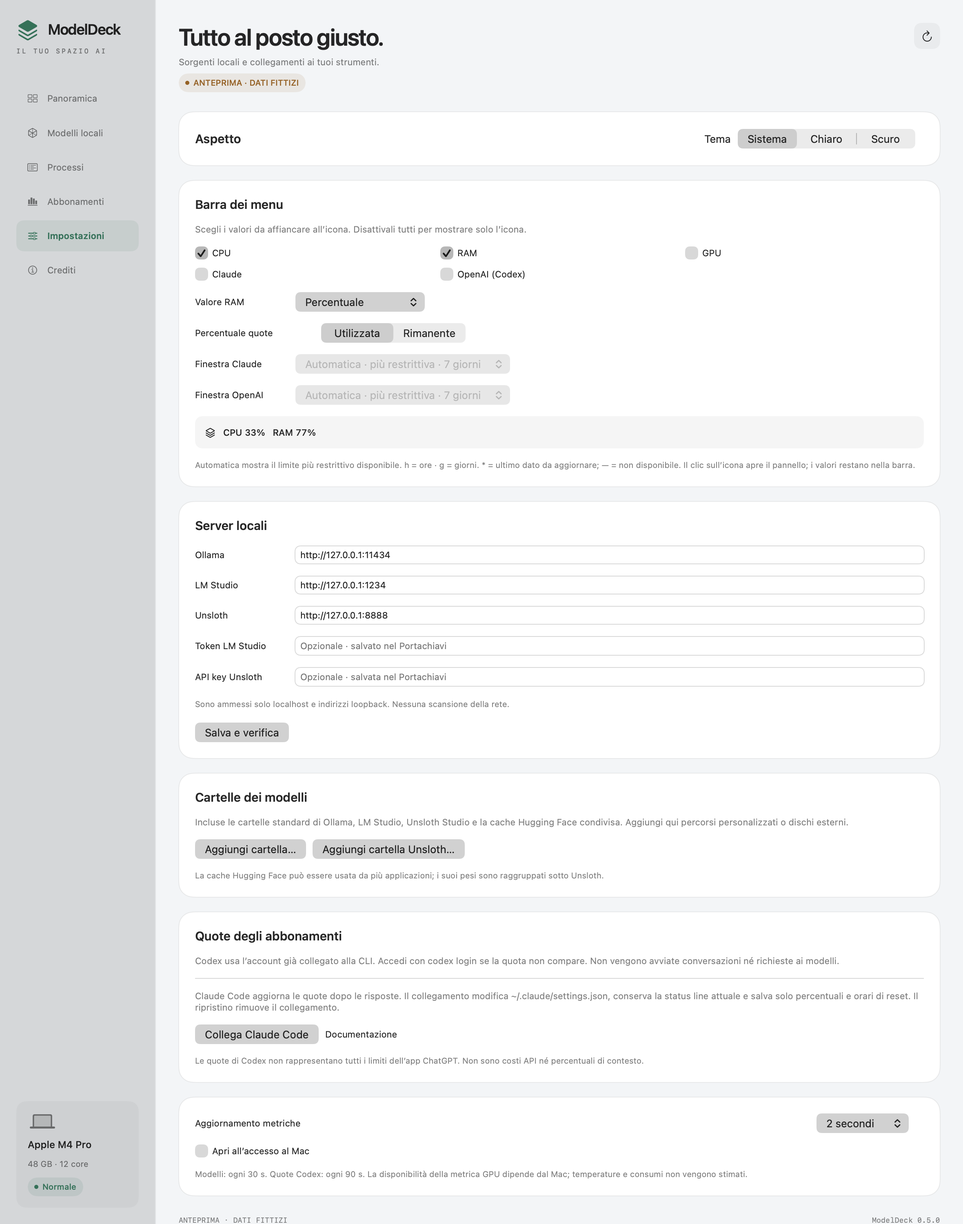
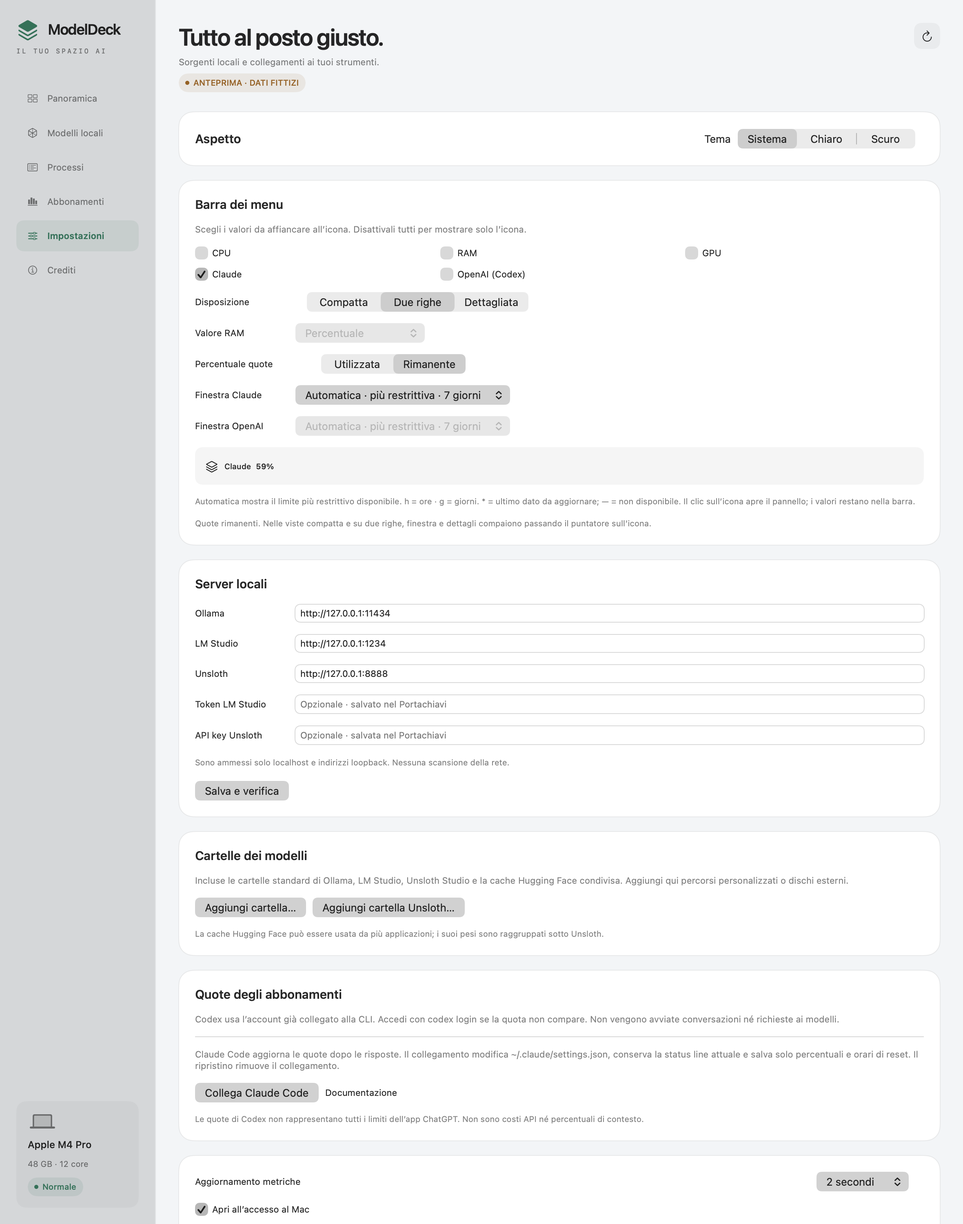
Add compact and two-row menu bar layouts

diff --git a/Sources/ModelDeckCore/MenuBarSummary.swift b/Sources/ModelDeckCore/MenuBarSummary.swift
@@ -17,15 +17,31 @@ public enum MenuBarQuotaStyle: String, CaseIterable, Codable, Sendable {
     public var title: String { self == .used ? "Utilizzata" : "Rimanente" }
 }
 
+public enum MenuBarLayout: String, CaseIterable, Codable, Sendable {
+    case compact, twoRows, detailed
+    public var title: String { switch self { case .compact: "Compatta"; case .twoRows: "Due righe"; case .detailed: "Dettagliata" } }
+}
+
 public struct MenuBarOptions: Codable, Equatable, Sendable {
     public static let defaultsKey = "menuBarOptions"
     public var metrics: Set<MenuBarMetric> = [.cpu, .memory]
     public var memoryStyle: MenuBarMemoryStyle = .percent
     public var quotaStyle: MenuBarQuotaStyle = .used
+    public var layout: MenuBarLayout = .twoRows
     /// Empty selects the most restrictive active quota in the provider's main bucket.
     public var claudeWindowID = ""
     public var openAIWindowID = ""
     public init() {}
+    private enum CodingKeys: String, CodingKey { case metrics, memoryStyle, quotaStyle, layout, claudeWindowID, openAIWindowID }
+    public init(from decoder: Decoder) throws {
+        let fields = try decoder.container(keyedBy: CodingKeys.self)
+        metrics = try fields.decodeIfPresent(Set<MenuBarMetric>.self, forKey: .metrics) ?? [.cpu, .memory]
+        memoryStyle = try fields.decodeIfPresent(MenuBarMemoryStyle.self, forKey: .memoryStyle) ?? .percent
+        quotaStyle = try fields.decodeIfPresent(MenuBarQuotaStyle.self, forKey: .quotaStyle) ?? .used
+        layout = try fields.decodeIfPresent(MenuBarLayout.self, forKey: .layout) ?? .twoRows
+        claudeWindowID = try fields.decodeIfPresent(String.self, forKey: .claudeWindowID) ?? ""
+        openAIWindowID = try fields.decodeIfPresent(String.self, forKey: .openAIWindowID) ?? ""
+    }
     public var encoded: String { (try? JSONEncoder().encode(self)).map { String(decoding: $0, as: UTF8.self) } ?? "" }
     public static func decode(_ raw: String?) -> MenuBarOptions {
         guard let raw, let data = raw.data(using: .utf8), let options = try? JSONDecoder().decode(Self.self, from: data) else { return Self() }
@@ -34,9 +50,15 @@ public struct MenuBarOptions: Codable, Equatable, Sendable {
     public static func load(from defaults: UserDefaults = .standard) -> MenuBarOptions { decode(defaults.string(forKey: defaultsKey)) }
 }
 
+public struct MenuBarReading: Sendable {
+    public let name: String
+    public let value: String
+}
+
 public struct MenuBarSummary: Sendable {
     public let title: String
     public let tooltip: String
+    public let readings: [MenuBarReading]
 
     public static func selectedWindow(in usage: SubscriptionUsage, id: String, provider: MenuBarMetric, now: Date = Date()) -> UsageWindow? {
         if !id.isEmpty { return usage.windows.first { $0.id == id } }
@@ -62,7 +84,7 @@ public struct MenuBarSummary: Sendable {
     }
 
     public static func render(options: MenuBarOptions, snapshot: SystemSnapshot, claude: SubscriptionUsage, openAI: SubscriptionUsage, now: Date = Date()) -> MenuBarSummary {
-        var titles: [String] = [], details = ["ModelDeck"]
+        var readings: [MenuBarReading] = [], details = ["ModelDeck"]
         func percentage(_ value: Double?) -> String {
             guard let value, value.isFinite, value >= 0 else { return "—" }
             return DeckFormat.percent(value)
@@ -71,12 +93,12 @@ public struct MenuBarSummary: Sendable {
             switch metric {
             case .cpu, .gpu:
                 let value = percentage(metric == .cpu ? snapshot.cpu : snapshot.gpu)
-                titles.append(metric.title + " " + value)
+                readings.append(.init(name: metric.title, value: value))
                 details.append(metric.title + " · " + value)
             case .memory:
                 let available = snapshot.memoryTotal > 0 && snapshot.memoryUsed > 0
                 let value = available ? options.memoryStyle == .percent ? percentage(snapshot.memoryPercent) : DeckFormat.bytes(snapshot.memoryUsed) : "—"
-                titles.append("RAM " + value)
+                readings.append(.init(name: "RAM", value: value))
                 details.append(available ? "RAM · \(DeckFormat.bytes(snapshot.memoryUsed)) / \(DeckFormat.bytes(snapshot.memoryTotal)) · \(percentage(snapshot.memoryPercent))" : "RAM · non disponibile")
             case .claude, .openAI:
                 let usage = metric == .claude ? claude : openAI
@@ -87,23 +109,24 @@ public struct MenuBarSummary: Sendable {
                 if let minutes = window?.durationMinutes, minutes > 0 {
                     scope = minutes % 1440 == 0 ? "\(minutes / 1440)g" : minutes % 60 == 0 ? "\(minutes / 60)h" : "\(minutes)m"
                 }
-                let label = prefix + (scope.isEmpty ? "" : " " + scope)
+                let label = prefix + (options.layout == .detailed && !scope.isEmpty ? " " + scope : "")
                 guard let window, window.usedPercent.isFinite, window.usedPercent >= 0,
                       window.resetsAt.map({ $0 > now }) ?? true else {
-                    titles.append(label + " —")
+                    readings.append(.init(name: label, value: "—"))
                     details.append(metric.title + " · " + (window?.title ?? "quota selezionata") + " · non disponibile o in attesa di aggiornamento")
                     continue
                 }
                 let stale = usage.updatedAt.map { now.timeIntervalSince($0) > 600 } ?? true
                 let needsUpdate = stale || usage.message != nil
                 let value = options.quotaStyle == .used ? window.usedPercent : max(0, 100 - window.usedPercent)
-                titles.append(label + " " + percentage(value) + (needsUpdate ? "*" : "") + (options.quotaStyle == .used ? " usato" : " rimanente"))
+                let meaning = options.layout == .detailed ? (options.quotaStyle == .used ? " usato" : " rimanente") : ""
+                readings.append(.init(name: label, value: percentage(value) + (needsUpdate ? "*" : "") + meaning))
                 var detail = metric.title + " · " + window.title + " · " + percentage(value) + (options.quotaStyle == .used ? " utilizzato" : " rimanente")
                 if needsUpdate { detail += " · ultimo dato, da aggiornare" }
                 if let reset = window.resetsAt { detail += " · reset " + reset.formatted(date: .abbreviated, time: .shortened) }
                 details.append(detail)
             }
         }
-        return MenuBarSummary(title: titles.joined(separator: "   "), tooltip: details.joined(separator: "\n"))
+        return MenuBarSummary(title: readings.map { $0.name + " " + $0.value }.joined(separator: options.layout == .detailed ? "   " : " · "), tooltip: details.joined(separator: "\n"), readings: readings)
     }
 }

diff --git a/Sources/ModelDeck/MenuBarBadge.swift b/Sources/ModelDeck/MenuBarBadge.swift
@@ -1,0 +1,88 @@
+import AppKit
+import CoreText
+import SwiftUI
+import ModelDeckCore
+
+@MainActor enum MenuBarBadge {
+    static func icon() -> NSImage? {
+        let icon = NSImage(systemSymbolName: "square.stack.3d.up", accessibilityDescription: "ModelDeck")
+        icon?.isTemplate = true; icon?.size = NSSize(width: 17, height: 18)
+        return icon
+    }
+
+    /// Vector-backed template image: AppKit renders at the display's scale and menu bar contrast.
+    static func image(for summary: MenuBarSummary, height: CGFloat = 22) -> NSImage {
+        let height = max(20, min(24, height))
+        let nameFont = NSFont.systemFont(ofSize: height >= 22 ? 9.5 : 9, weight: .medium)
+        let valueFont = NSFont.monospacedDigitSystemFont(ofSize: height >= 22 ? 9.5 : 9, weight: .semibold)
+        func line(_ text: String, font: NSFont) -> CTLine {
+            CTLineCreateWithAttributedString(NSAttributedString(string: text, attributes: [.font: font, .foregroundColor: NSColor.black]) as CFAttributedString)
+        }
+        let lines = summary.readings.map { (line($0.name, font: nameFont), line($0.value, font: valueFont)) }
+        let columns = stride(from: 0, to: lines.count, by: 2).map { Array(lines[$0..<min($0 + 2, lines.count)]) }
+        let widths = columns.map { rows -> (CGFloat, CGFloat) in
+            (ceil(rows.map { CGFloat(CTLineGetTypographicBounds($0.0, nil, nil, nil)) }.max() ?? 0),
+             ceil(rows.map { CGFloat(CTLineGetTypographicBounds($0.1, nil, nil, nil)) }.max() ?? 0))
+        }
+        let width = 24 + widths.reduce(CGFloat(0)) { $0 + $1.0 + 5 + $1.1 } + CGFloat(max(0, columns.count - 1)) * 10
+        let symbol = icon()
+        let result = NSImage(size: NSSize(width: width, height: height), flipped: false) { _ in
+            guard let context = NSGraphicsContext.current?.cgContext else { return false }
+            context.saveGState(); defer { context.restoreGState() }
+            symbol?.draw(in: NSRect(x: 0, y: (height - 18) / 2, width: 17, height: 18))
+            context.textMatrix = .identity
+            func draw(_ line: CTLine, x: CGFloat, bottom: CGFloat) {
+                var ascent: CGFloat = 0, descent: CGFloat = 0
+                _ = CTLineGetTypographicBounds(line, &ascent, &descent, nil)
+                context.textPosition = CGPoint(x: x, y: bottom + (height / 2 - ascent - descent) / 2 + descent)
+                CTLineDraw(line, context)
+            }
+            var x: CGFloat = 24
+            for (index, rows) in columns.enumerated() {
+                let (nameWidth, valueWidth) = widths[index]
+                for (row, pair) in rows.enumerated() {
+                    let bottom = rows.count == 1 ? height / 4 : row == 0 ? height / 2 : 0
+                    draw(pair.0, x: x, bottom: bottom)
+                    let actual = CGFloat(CTLineGetTypographicBounds(pair.1, nil, nil, nil))
+                    draw(pair.1, x: x + nameWidth + 5 + valueWidth - actual, bottom: bottom)
+                }
+                x += nameWidth + 5 + valueWidth + 10
+            }
+            return true
+        }
+        result.isTemplate = true; result.accessibilityDescription = summary.title
+        return result
+    }
+}
+
+struct MenuBarLayoutsPreview: View {
+    @EnvironmentObject var store: DeckStore
+    var body: some View {
+        VStack(alignment: .leading, spacing: 20) {
+            Text("Quote nella barra dei menu").font(.system(size: 22, weight: .semibold))
+            StatusPill(text: "ANTEPRIMA · DATI FITTIZI", color: DeckTheme.amber)
+            ForEach(MenuBarLayout.allCases, id: \.self) { layout in
+                let summary = summary(layout)
+                DeckCard {
+                    VStack(alignment: .leading, spacing: 14) {
+                        Text(layout.title).font(.system(size: 12, weight: .semibold))
+                        HStack(spacing: 7) {
+                            if layout == .twoRows { Image(nsImage: MenuBarBadge.image(for: summary)).renderingMode(.template).fixedSize() }
+                            else { Image(systemName: "square.stack.3d.up"); Text(summary.title).font(.system(size: 11, weight: .medium)).monospacedDigit() }
+                            Spacer()
+                        }.frame(height: 24)
+                    }
+                }
+            }
+            Text("Le quote dell’esempio sono rimanenti. Finestra, reset e aggiornamento sono disponibili nel tooltip e nel pannello.")
+                .font(.system(size: 11)).foregroundStyle(DeckTheme.muted)
+        }.padding(24).frame(width: 650, height: 490).background(DeckTheme.background).foregroundStyle(DeckTheme.foreground).deckAppearance(.light)
+    }
+    private func summary(_ layout: MenuBarLayout) -> MenuBarSummary {
+        var options = MenuBarOptions(); options.metrics = [.claude, .openAI]; options.quotaStyle = .remaining; options.layout = layout
+        var claude = store.claude, openAI = store.codex
+        for i in claude.windows.indices { claude.windows[i].usedPercent = 100 }
+        for i in openAI.windows.indices { openAI.windows[i].usedPercent = 1 }
+        return .render(options: options, snapshot: store.snapshot, claude: claude, openAI: openAI)
+    }
+}

diff --git a/Sources/ModelDeck/DeckApplicationDelegate.swift b/Sources/ModelDeck/DeckApplicationDelegate.swift
@@ -45,8 +45,7 @@ import ModelDeckCore
     func configureStatusItem() {
         guard statusItem == nil else { return }
         let item = NSStatusBar.system.statusItem(withLength: NSStatusItem.variableLength)
-        let image = NSImage(systemSymbolName: "square.stack.3d.up", accessibilityDescription: "ModelDeck")
-        image?.isTemplate = true; image?.size = NSSize(width: 17, height: 18)
+        let image = MenuBarBadge.icon()
         item.button?.image = image; item.button?.toolTip = "ModelDeck"
         item.button?.font = .monospacedDigitSystemFont(ofSize: 11, weight: .medium)
         item.button?.target = self; item.button?.action = #selector(togglePopover)
@@ -68,10 +67,17 @@ import ModelDeckCore
     private func refreshStatusItem() { updateStatusItem(snapshot: store.snapshot, claude: store.claude, openAI: store.codex) }
     private func updateStatusItem(snapshot: SystemSnapshot, claude: SubscriptionUsage, openAI: SubscriptionUsage) {
         guard let item = statusItem, let button = item.button else { return }
-        let summary = MenuBarSummary.render(options: menuOptionsOverride ?? .load(), snapshot: snapshot, claude: claude, openAI: openAI)
+        let options = menuOptionsOverride ?? .load()
+        let summary = MenuBarSummary.render(options: options, snapshot: snapshot, claude: claude, openAI: openAI)
         item.length = summary.title.isEmpty ? NSStatusItem.squareLength : NSStatusItem.variableLength
-        button.imagePosition = summary.title.isEmpty ? .imageOnly : .imageLeading
-        button.title = summary.title.isEmpty ? "" : " " + summary.title
+        if options.layout == .twoRows && !summary.readings.isEmpty {
+            button.image = MenuBarBadge.image(for: summary, height: NSStatusBar.system.thickness - 2)
+            button.imagePosition = .imageOnly; button.title = ""
+        } else {
+            button.image = MenuBarBadge.icon()
+            button.imagePosition = summary.title.isEmpty ? .imageOnly : .imageLeading
+            button.title = summary.title.isEmpty ? "" : " " + summary.title
+        }
         button.toolTip = summary.tooltip
         button.setAccessibilityLabel(summary.tooltip.replacingOccurrences(of: "\n", with: ", "))
     }
@@ -122,6 +128,7 @@ import ModelDeckCore
         let savedOverride = menuOptionsOverride
         defer { menuOptionsOverride = savedOverride; store.snapshot = savedSnapshot; refreshStatusItem() }
         var options = MenuBarOptions(); options.metrics = Set(MenuBarMetric.allCases)
+        options.layout = .detailed
         menuOptionsOverride = options; refreshStatusItem()
         let text = statusItem?.button?.title ?? ""
         let showsValues = text.contains("CPU 33%") && text.contains("RAM") && text.contains("Claude 7g 41% usato") && text.contains("OpenAI 7g 58% usato")
@@ -135,6 +142,10 @@ import ModelDeckCore
         togglePopover()
         let closed = !popover.isShown
         let valuesWhileClosed = statusItem?.button?.title == persistentTitle
+        options.metrics = [.claude, .openAI]; options.layout = .twoRows; menuOptionsOverride = options; refreshStatusItem()
+        let badge = statusItem?.button?.image
+        let twoRows = statusItem?.button?.title.isEmpty == true && badge?.accessibilityDescription?.contains("Claude 41%") == true && (badge?.size.height ?? 0) >= 20
+        let compactWidth = (badge?.size.width ?? 1000) < 150
         dashboard?.close()
         showDashboard()
         options.metrics = []; menuOptionsOverride = options; refreshStatusItem()
@@ -144,6 +155,7 @@ import ModelDeckCore
                 "selected_values": showsValues, "image_and_text": imageAndText,
                 "live_values": updatesValues, "icon_only": iconOnly,
                 "values_while_open": valuesWhileOpen, "values_while_closed": valuesWhileClosed,
+                "two_rows": twoRows, "two_rows_width": compactWidth,
                 "popover_opened": opened, "popover_closed": closed,
                 "dashboard_reopened": dashboard?.isVisible == true]
     }

diff --git a/Sources/ModelDeck/MenuBarSettingsView.swift b/Sources/ModelDeck/MenuBarSettingsView.swift
@@ -17,6 +17,12 @@ struct MenuBarSettingsView: View {
                     ForEach(MenuBarMetric.allCases, id: \.self) { metric in Toggle(metric.title, isOn: metricBinding(metric)).toggleStyle(.checkbox) }
                 }.font(.system(size: 11))
                 HStack {
+                    Text("Disposizione").frame(width: 115, alignment: .leading)
+                    Picker("Disposizione", selection: optionBinding(\.layout)) {
+                        ForEach(MenuBarLayout.allCases, id: \.self) { Text($0.title).tag($0) }
+                    }.pickerStyle(.segmented).labelsHidden().frame(width: 300)
+                }.font(.system(size: 11))
+                HStack {
                     Text("Valore RAM").frame(width: 115, alignment: .leading)
                     Picker("Valore RAM", selection: optionBinding(\.memoryStyle)) {
                         ForEach(MenuBarMemoryStyle.allCases, id: \.self) { Text($0.title).tag($0) }
@@ -31,13 +37,19 @@ struct MenuBarSettingsView: View {
                 windowPicker("Finestra Claude", metric: .claude, usage: store.claude, selection: optionBinding(\.claudeWindowID))
                 windowPicker("Finestra OpenAI", metric: .openAI, usage: store.codex, selection: optionBinding(\.openAIWindowID))
                 HStack(spacing: 9) {
-                    Image(systemName: "square.stack.3d.up")
-                    if !summary.title.isEmpty { Text(summary.title).monospacedDigit() }
+                    if options.layout == .twoRows && !summary.readings.isEmpty {
+                        Image(nsImage: MenuBarBadge.image(for: summary)).renderingMode(.template).fixedSize()
+                    } else {
+                        Image(systemName: "square.stack.3d.up")
+                        if !summary.title.isEmpty { Text(summary.title).monospacedDigit() }
+                    }
                     Spacer(minLength: 0)
                 }.font(.system(size: 11, weight: .medium)).padding(12)
                     .background(DeckTheme.subtle.opacity(0.04), in: RoundedRectangle(cornerRadius: 9)).help(summary.tooltip)
                     .accessibilityLabel("Anteprima barra dei menu. " + summary.tooltip)
                 Text("Automatica mostra il limite più restrittivo disponibile. h = ore · g = giorni. * = ultimo dato da aggiornare; — = non disponibile. Il clic sull’icona apre il pannello; i valori restano nella barra.")
+                    .font(.system(size: 10)).foregroundStyle(DeckTheme.muted).fixedSize(horizontal: false, vertical: true)
+                Text("Quote \(options.quotaStyle == .used ? "utilizzate" : "rimanenti"). Nelle viste compatta e su due righe, finestra e dettagli compaiono passando il puntatore sull’icona.")
                     .font(.system(size: 10)).foregroundStyle(DeckTheme.muted).fixedSize(horizontal: false, vertical: true)
             }
         }

diff --git a/Sources/ModelDeck/ModelDeckApp.swift b/Sources/ModelDeck/ModelDeckApp.swift
@@ -102,11 +102,18 @@ import ModelDeckCore
         let section = CommandLine.arguments.contains("--credits") ? "credits" : CommandLine.arguments.contains("--processes") ? "processes" : CommandLine.arguments.contains("--settings") ? "settings" : "overview"
         let theme: DeckAppearance = CommandLine.arguments.contains("--light") ? .light : .dark
         let fit = CommandLine.arguments.contains("--fit")
+        if CommandLine.arguments.contains("--menu-bar") {
+            let hosting = NSHostingView(rootView: MenuBarLayoutsPreview().environmentObject(store))
+            writePreview(hosting, to: url, width: 650, height: 490); return
+        }
         if fit { store.machine.memory = UInt64(16 * gibibyte); store.machine.metalWorkingSet = UInt64(12 * gibibyte); store.snapshot.memoryTotal = store.machine.memory; store.snapshot.memoryUsed = UInt64(8 * gibibyte) }
         let content: AnyView = fit ? AnyView(ModelFitView(demonstration: true, demonstrateSearch: CommandLine.arguments.contains("--search"), appearanceOverride: theme).environmentObject(store).environment(\.locale, Locale(identifier: "it_IT"))) : AnyView(Dashboard(initialSection: section, appearanceOverride: theme).environmentObject(store).environment(\.locale, Locale(identifier: "it_IT")))
         let hosting = NSHostingView(rootView: content)
         let height = fit ? 850 : section == "processes" ? 940 : section == "settings" ? 1500 : section == "credits" ? 850 : 1360
-        let window = NSWindow(contentRect: NSRect(x: 0, y: 0, width: fit ? 840 : 1180, height: CGFloat(height)), styleMask: [.titled, .closable], backing: .buffered, defer: false)
+        writePreview(hosting, to: url, width: fit ? 840 : 1180, height: CGFloat(height))
+    }
+    @MainActor private static func writePreview<Content: View>(_ hosting: NSHostingView<Content>, to url: URL, width: CGFloat, height: CGFloat) {
+        let window = NSWindow(contentRect: NSRect(x: 0, y: 0, width: width, height: height), styleMask: [.titled, .closable], backing: .buffered, defer: false)
         window.contentView = hosting; window.orderFront(nil)
         DispatchQueue.main.asyncAfter(deadline: .now() + 1) {
             hosting.layoutSubtreeIfNeeded()

diff --git a/Tests/ModelDeckCoreTests/MenuBarTests.swift b/Tests/ModelDeckCoreTests/MenuBarTests.swift
@@ -10,7 +10,8 @@ final class MenuBarTests: XCTestCase {
         ], updatedAt: now, source: "Fixture")
     }
     private func render(_ options: MenuBarOptions, claude: SubscriptionUsage? = nil, codex: SubscriptionUsage? = nil, snapshot: SystemSnapshot = .init()) -> MenuBarSummary {
-        .render(options: options, snapshot: snapshot, claude: claude ?? usage(), openAI: codex ?? .init(provider: "OpenAI", source: "Fixture"), now: now)
+        var detailed = options; detailed.layout = .detailed
+        return .render(options: detailed, snapshot: snapshot, claude: claude ?? usage(), openAI: codex ?? .init(provider: "OpenAI", source: "Fixture"), now: now)
     }
     func testZeroQuotaIsValidAndMissingOrExpiredWindowsNeverBecomeZero() {
         var options = MenuBarOptions(); options.metrics = [.claude, .openAI]
@@ -73,5 +74,16 @@ final class MenuBarTests: XCTestCase {
         XCTAssertEqual(render(options, claude: claude, codex: codex).title, "Claude 7g —   OpenAI 7g 100% rimanente")
         claude.windows[0].usedPercent = 100
         XCTAssertEqual(render(options, claude: claude, codex: codex).title, "Claude 5h 0% rimanente   OpenAI 7g 100% rimanente")
+    }
+    func testLayoutMigrationPreservesProviderSelectionsAndRemainingQuotaMeaning() {
+        let saved = #"{"quotaStyle":"remaining","openAIWindowID":"","metrics":["claude","openAI"],"memoryStyle":"percent","claudeWindowID":""}"#
+        let options = MenuBarOptions.decode(saved)
+        XCTAssertEqual(options.metrics, [.claude, .openAI]); XCTAssertEqual(options.quotaStyle, .remaining)
+        XCTAssertEqual(options.layout, .twoRows)
+        let summary = MenuBarSummary.render(options: options, snapshot: .init(), claude: usage(), openAI: .init(provider: "OpenAI", source: "Fixture"), now: now)
+        XCTAssertEqual(summary.title, "Claude 26% · OpenAI —")
+        XCTAssertEqual(summary.readings.map(\.name), ["Claude", "OpenAI"])
+        XCTAssertTrue(summary.tooltip.contains("7 giorni")); XCTAssertTrue(summary.tooltip.contains("26% rimanente"))
+        XCTAssertEqual(MenuBarOptions.decode(options.encoded), options)
     }
 }

diff --git a/Sources/ModelDeckCore/Subscriptions.swift b/Sources/ModelDeckCore/Subscriptions.swift
@@ -66,7 +66,7 @@ public enum CodexUsage {
                 guard buffer.count < 2_000_000 else { throw DeckError.invalidResponse }
             }
         }
-        try send(["id": 0, "method": "initialize", "params": ["clientInfo": ["name": "modeldeck", "title": "ModelDeck", "version": "0.5.0"]]])
+        try send(["id": 0, "method": "initialize", "params": ["clientInfo": ["name": "modeldeck", "title": "ModelDeck", "version": "0.6.0"]]])
         _ = try response(0)
         try send(["method": "initialized", "params": [:]])
         try send(["id": 1, "method": "account/rateLimits/read", "params": [:]])

diff --git a/Sources/ModelDeck/Dashboard.swift b/Sources/ModelDeck/Dashboard.swift
@@ -27,7 +27,7 @@ struct Dashboard: View {
                     HStack {
                         if store.demo { Text("ANTEPRIMA · DATI FITTIZI") }
                         Spacer()
-                        Text("ModelDeck 0.5.0")
+                        Text("ModelDeck 0.6.0")
                     }.font(.system(size: 9, design: .monospaced)).foregroundStyle(DeckTheme.muted)
                 }.padding(28).frame(maxWidth: 1200)
             }.frame(maxWidth: .infinity, maxHeight: .infinity)

diff --git a/README.md b/README.md
@@ -21,6 +21,7 @@ The screenshot uses **synthetic demonstration data**, not a real account or a pe
 - Confirmed termination (SIGTERM) or forced termination (SIGKILL) for your own processes, with PID identity validation.
 - Native menu bar icon: left click for the panel, right click for actions, and dashboard reopening after closing its window.
 - Selectable menu bar values beside the icon: CPU, RAM, GPU and Claude/OpenAI quota windows, with used or remaining percentages.
+- Compact, two-row and detailed menu bar layouts, with vector-rendered text that adapts to menu bar contrast.
 - Hardware fit estimator with public Hugging Face metadata, local GGUF/config metadata, configurable context, KV cache precision and memory margins.
 - Public Hugging Face model search by partial name, with selectable results and GGUF/MLX filters.
 - Credits page linking the author, source repository, issue tracker and license.
@@ -32,9 +33,9 @@ The project name and icon are provisional while the feature set is being develop
 
 ## Menu bar values
 
-Open **Impostazioni → Barra dei menu** to select any combination of CPU, RAM, GPU, Claude Code and OpenAI/Codex. CPU and RAM are enabled by default. Disable every value to keep only the icon. Preferences are saved and applied without restarting; the icon retains its left/right-click actions.
+Open **Impostazioni → Barra dei menu** to select any combination of CPU, RAM, GPU, Claude Code and OpenAI/Codex. CPU and RAM are enabled by default. Disable every value to keep only the icon. Preferences are saved and applied without restarting; the icon retains its left/right-click actions. **Disposizione** offers compact, two-row and detailed layouts. Two rows is the new default, including when migrating existing preferences; selected metrics, quota meaning and window choices are preserved.
 
-RAM can show percentage or used memory. Each provider has its own quota-window selector, including any additional Codex buckets reported by the service. Choose used or remaining percentages for both providers. Full provider names and percentage meaning appear directly in the bar, for example `Claude 7g 0% rimanente` and `OpenAI 7g 100% rimanente`. The tooltip names the window and reset time.
+RAM can show percentage or used memory. Each provider has its own quota-window selector, including any additional Codex buckets reported by the service. Choose used or remaining percentages for both providers. Compact mode shows `Claude 0% · OpenAI 99%`; two-row mode stacks pairs of readings with aligned names and percentages. The vector-backed template image uses 9–9.5 pt text with semibold values, rendered at the display's scale. Detailed mode includes window and meaning directly, for example `Claude 7g 0% rimanente`. All modes retain full window, meaning, reset and freshness information in the tooltip and accessibility label. [Layout comparison with synthetic data](docs/menu-bar-layouts.png).
 
 Unavailable/expired values display `—`, never a guessed zero. An asterisk marks last-known quotas older than ten minutes or a failed refresh. An explicitly selected window that disappears stays unavailable rather than switching silently to another quota. Automatic selection uses the **most restrictive active reported quota**, comparing Claude's returned limits and Codex's main bucket windows. Separate Codex buckets such as review limits remain selectable explicitly. An exhausted weekly limit therefore shows 0% remaining even if the five-hour window is unused. If a main window has expired, the effective quota stays unavailable until refreshed, unless another valid window already proves that usage is blocked. The values share the dashboard's refresh intervals and do not trigger additional service requests. Clicking the icon opens/closes the panel; it does not hide the selected bar values.
 
@@ -153,6 +154,7 @@ swift run ModelDeck --demo
 .build/debug/ModelDeck --preview docs/model-fit.png --fit
 .build/debug/ModelDeck --preview docs/credits.png --credits
 .build/debug/ModelDeck --preview docs/model-search.png --fit --search
+.build/debug/ModelDeck --preview docs/menu-bar-layouts.png --menu-bar
 .build/debug/ModelDeck --check-menu
 .build/debug/ModelDeck --check-fit Qwen/Qwen2.5-3B-Instruct-GGUF
 .build/debug/ModelDeck --check-search Qwen2.5-3B --gguf
